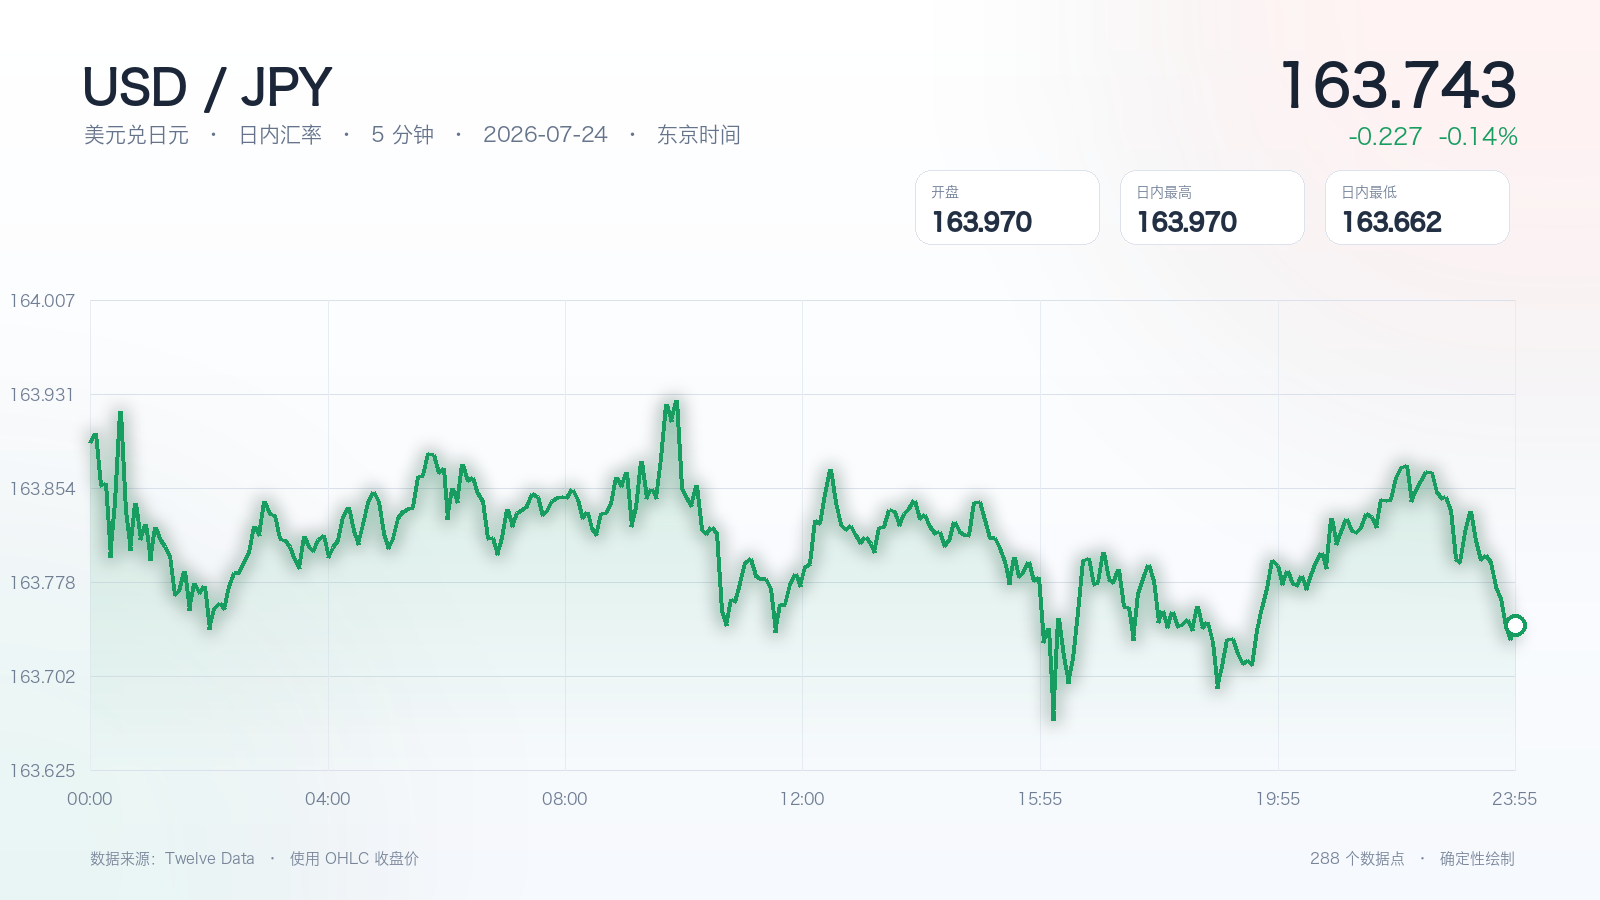
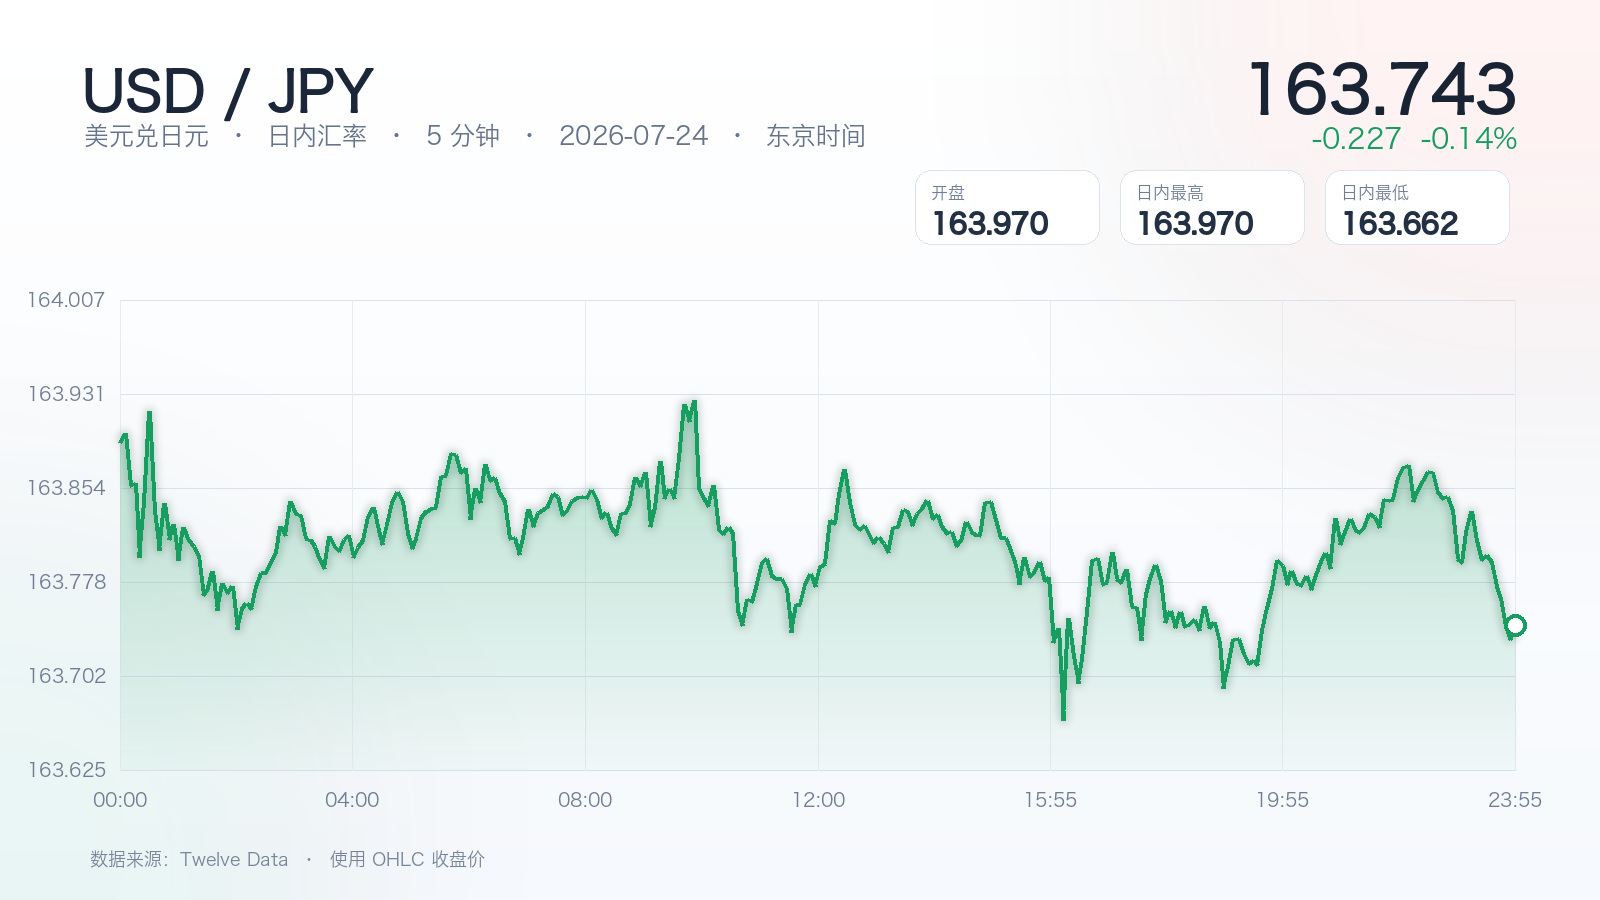
style(exchange): 优化汇率图手机阅读
加深趋势面积并收窄曲线光晕。\n放大图表文字并移除非必要的渲染说明。

diff --git a/src/exchange_rate_chart_demo.py b/src/exchange_rate_chart_demo.py
@@ -313,7 +313,7 @@ class ExchangeRateChartRenderer:
             timezone_label=timezone_label,
         )
         self._draw_chart(image=image, draw=draw, points=ordered_points)
-        self._draw_footer(draw=draw, points=ordered_points)
+        self._draw_footer(draw=draw)
 
         output_path.parent.mkdir(parents=True, exist_ok=True)
         image.save(output_path, format="PNG", optimize=True)
@@ -376,10 +376,10 @@ class ExchangeRateChartRenderer:
             None
         """
 
-        title_font = self._font(48)
-        subtitle_font = self._font(21)
-        rate_font = self._font(58)
-        change_font = self._font(23)
+        title_font = self._font(56)
+        subtitle_font = self._font(25)
+        rate_font = self._font(66)
+        change_font = self._font(28)
 
         draw.text(
             (82, 62),
@@ -467,13 +467,13 @@ class ExchangeRateChartRenderer:
         draw.text(
             (x + 16, y + 14),
             label,
-            font=self._font(14),
+            font=self._font(17),
             fill=(111, 126, 149, 255),
         )
         draw.text(
             (x + 16, y + 39),
             self._rate_text(value),
-            font=self._font(24),
+            font=self._font(28),
             fill=(35, 48, 68, 255),
             stroke_width=1,
         )
@@ -496,7 +496,7 @@ class ExchangeRateChartRenderer:
             None
         """
 
-        left, top, right, bottom = 90, 300, 1515, 770
+        left, top, right, bottom = 120, 300, 1515, 770
         low = min(point.low_rate for point in points)
         high = max(point.high_rate for point in points)
         spread = high - low
@@ -509,7 +509,7 @@ class ExchangeRateChartRenderer:
         total_seconds = (end_time - start_time).total_seconds()
         assert total_seconds > 0, "绘图数据时间范围必须大于零。"
 
-        label_font = self._font(16)
+        label_font = self._font(19)
         for index in range(6):
             ratio = index / 5
             y = round(top + (bottom - top) * ratio)
@@ -577,7 +577,7 @@ class ExchangeRateChartRenderer:
         gradient_draw = ImageDraw.Draw(area_gradient)
         for y in range(top, bottom + 1):
             ratio = (y - top) / max(bottom - top, 1)
-            alpha = round(58 * (1 - ratio))
+            alpha = round(88 * (1 - ratio) + 8)
             gradient_draw.line(
                 (left, y, right, y),
                 fill=(*trend_rgb, alpha),
@@ -594,11 +594,11 @@ class ExchangeRateChartRenderer:
         glow_draw = ImageDraw.Draw(glow)
         glow_draw.line(
             line_points,
-            fill=(*trend_rgb, 95),
-            width=10,
+            fill=(*trend_rgb, 72),
+            width=7,
             joint="curve",
         )
-        glow = glow.filter(ImageFilter.GaussianBlur(8))
+        glow = glow.filter(ImageFilter.GaussianBlur(4))
         image.alpha_composite(glow)
 
         draw = ImageDraw.Draw(image)
@@ -619,32 +619,23 @@ class ExchangeRateChartRenderer:
     def _draw_footer(
         self,
         draw: ImageDraw.ImageDraw,
-        points: Sequence[IntradayRatePoint],
     ) -> None:
         """
         绘制图表脚注。
 
         Args:
             draw (ImageDraw.ImageDraw): Pillow 绘图对象。
-            points (Sequence[IntradayRatePoint]): 汇率数据点。
 
         Returns:
             None
         """
 
-        footer_font = self._font(15)
+        footer_font = self._font(18)
         draw.text(
             (90, 850),
             "数据来源：Twelve Data  ·  使用 OHLC 收盘价",
             font=footer_font,
             fill=(120, 133, 153, 255),
-        )
-        draw.text(
-            (1515, 850),
-            f"{len(points)} 个数据点  ·  确定性绘制",
-            font=footer_font,
-            fill=(120, 133, 153, 255),
-            anchor="ra",
         )
 
     @staticmethod
